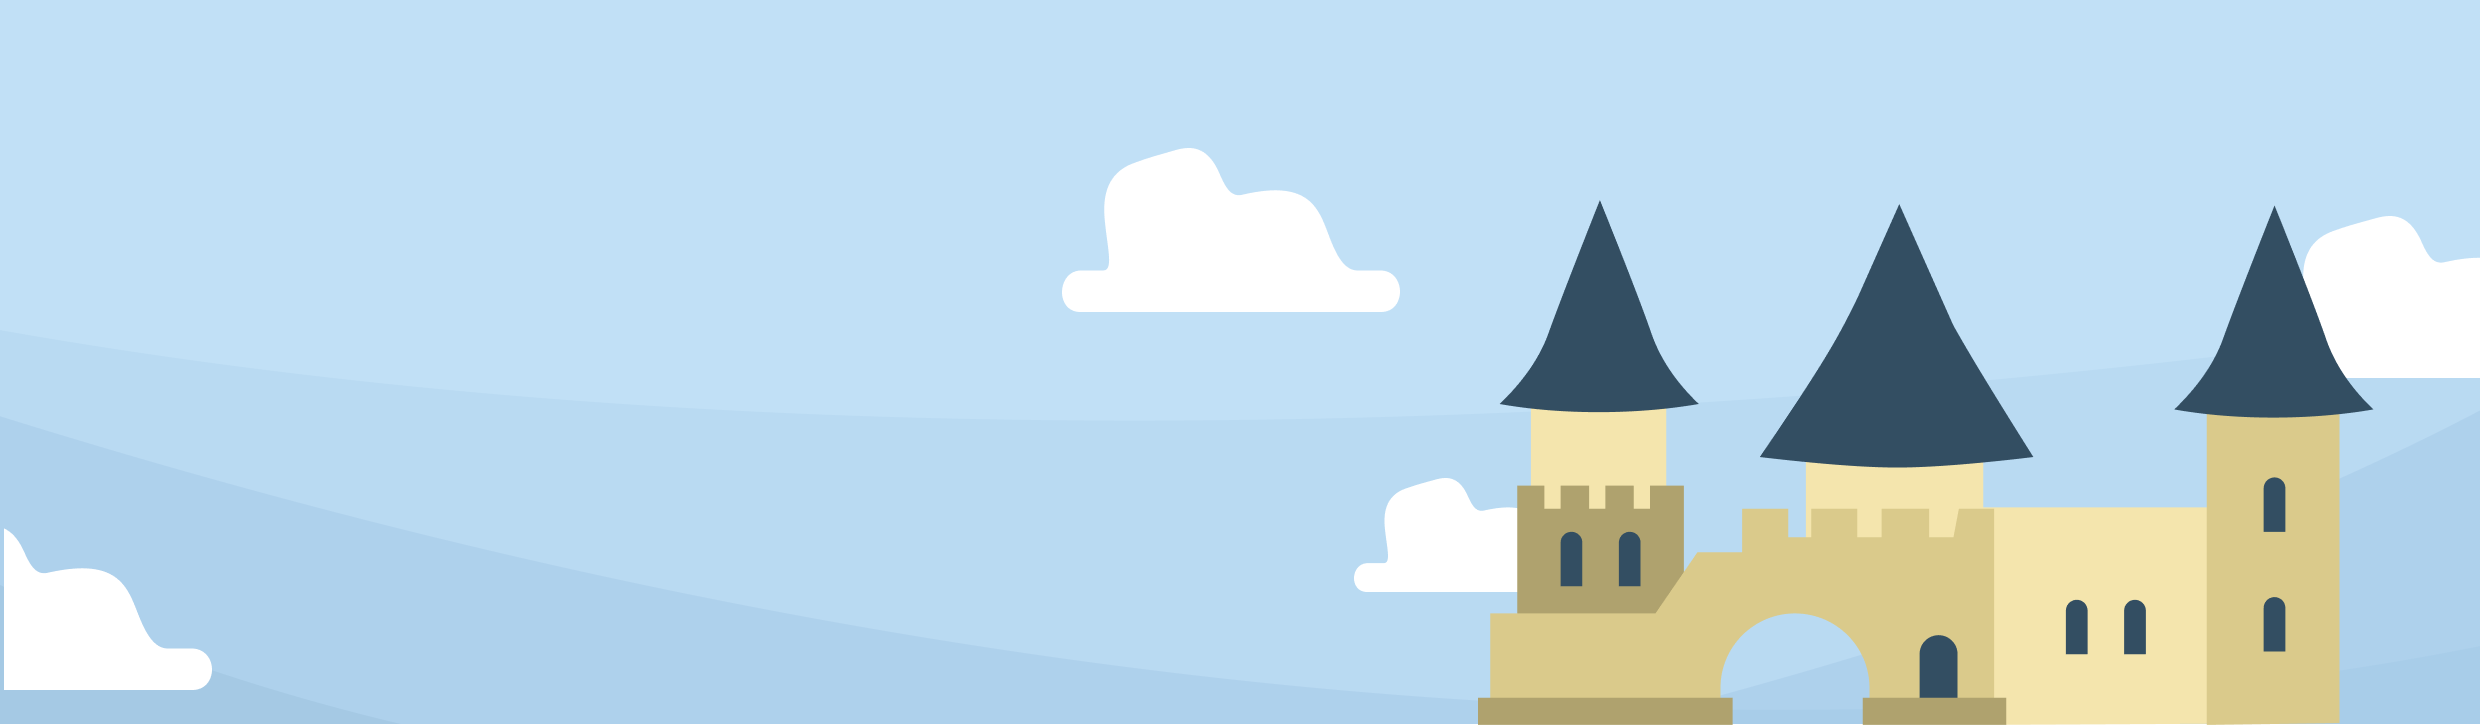
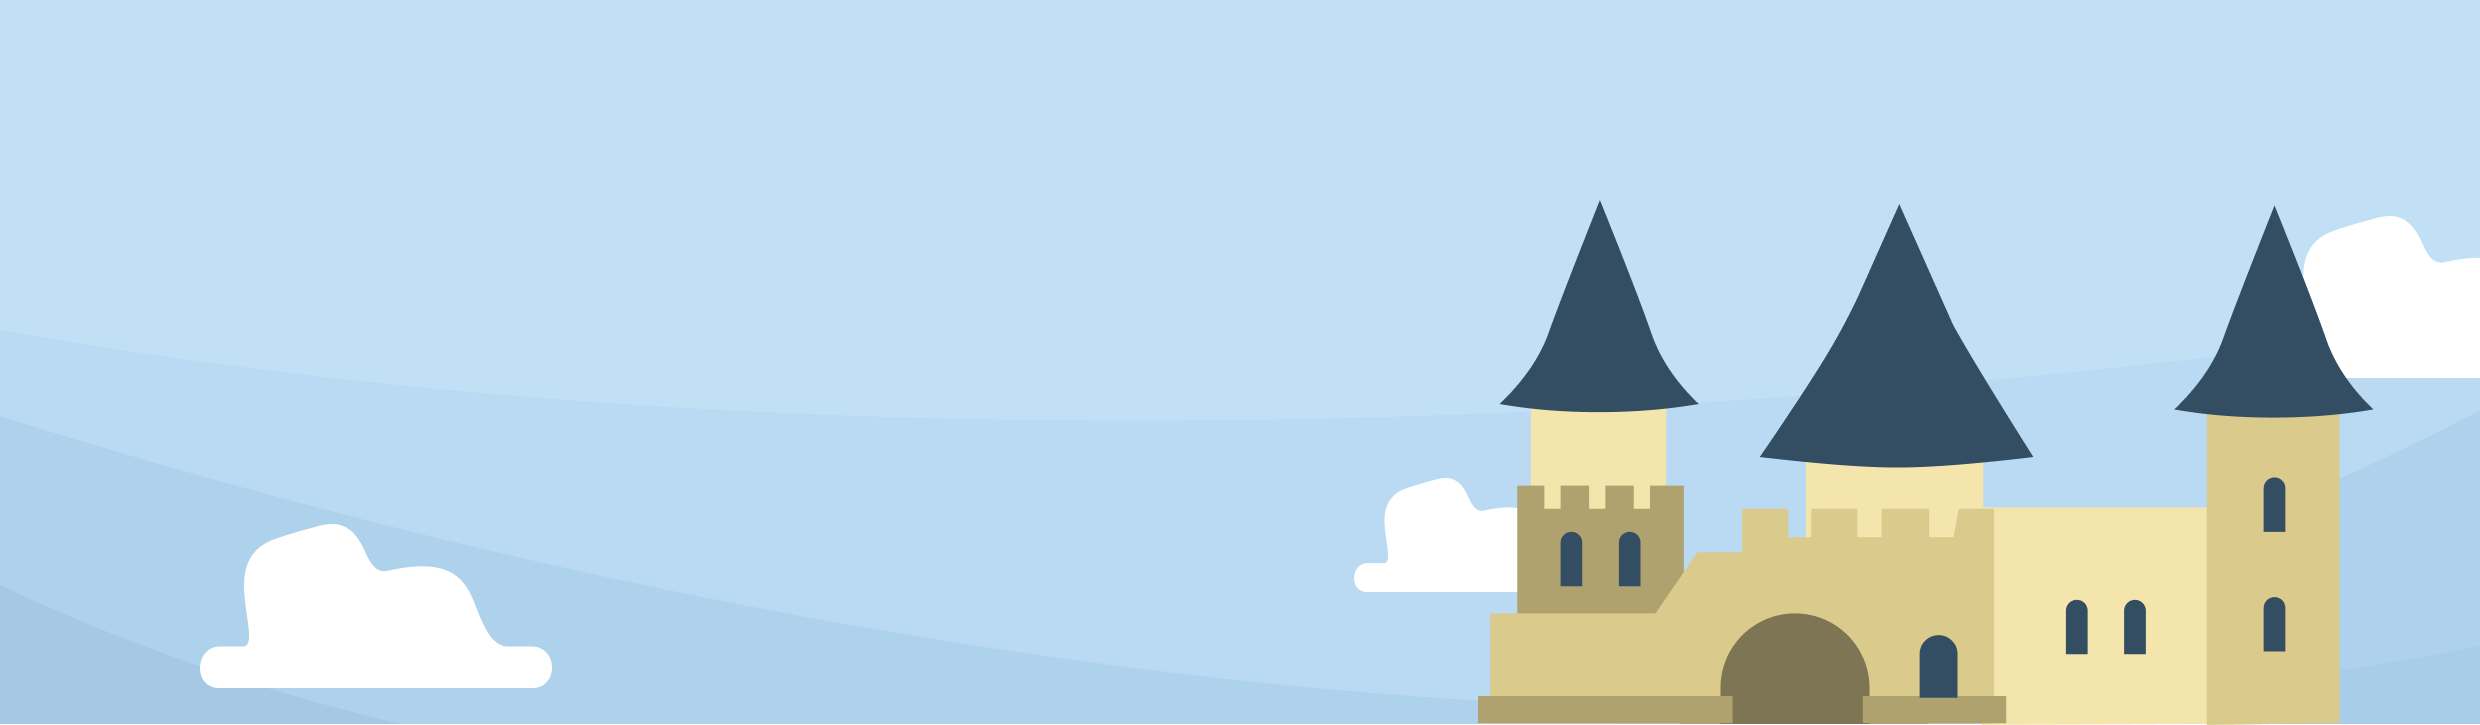
Refatorando e readicionando as imagens flat

Changed region(s): [[0.0, 0.7283, 0.2484, 0.971], [0.4036, 0.1821, 0.5899, 0.4552], [0.6831, 0.8497, 0.7762, 1.0]]

diff --git a/src/main/webapp/css/sights/both.css b/src/main/webapp/css/sights/both.css
@@ -7,10 +7,12 @@ body {
 
 #blue-theme {
     background-color: var(--blue);
-    background-image: url('../../img/shape/background-blue.svg');
-    background-position: 50% 0;
-    background-repeat: no-repeat;
-    background-size: cover;
+    background-image:
+        url('../../img/shape/background-blue.svg'),
+        linear-gradient(to bottom, #538cdb 50%, #1C457E 50%);
+    background-position: 50% 0, 50% 0;
+    background-repeat: no-repeat, repeat-y;
+    background-size: cover, 100%;
 }
 
 .logo {
@@ -24,7 +26,6 @@ body {
 .logo>:last-child { /* Apenas nas telas de dash */
     max-width: 130px;
 }
-
 
 #major-container {
     width: 90%;
@@ -65,7 +66,7 @@ body {
     background-image: url('../../img/flat/castle.png');
     background-size: cover;
     background-repeat: no-repeat;
-    background-position: 90% 100%;
+    background-position: 90% 99%;
     background-size: 120%;
 }
 
